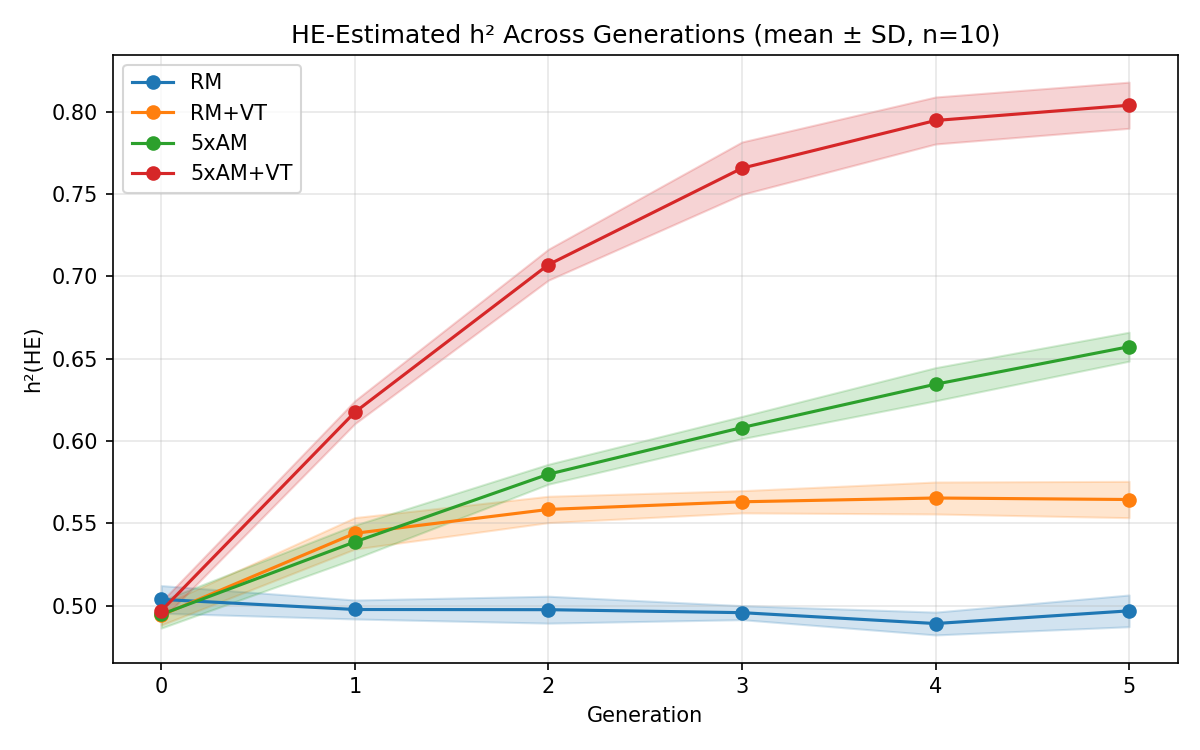
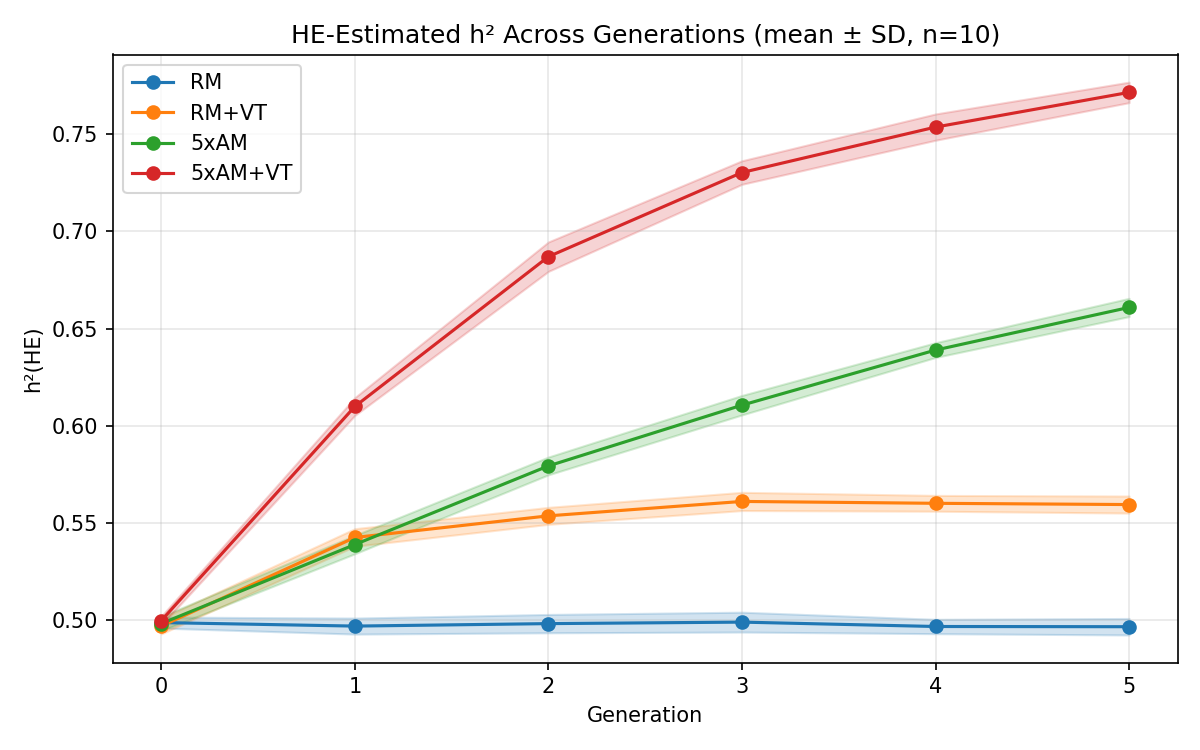
memory-efficient HE estimator via StandardizedHaplotypeOperator
Adds StandardizedHaplotypeOperator wrapping a HaplotypeOperator so that
matvec/rmatvec act on the column-standardized matrix without materializing
it. HasemanElstonEstimator now uses this for K Y and the stochastic
tr(K^2) probe; the deterministic tr(K^2) branch still materializes G.

Regenerates figure3_h2.png and figure3_rg.png.

diff --git a/xftsim/struct.py b/xftsim/struct.py
@@ -2748,6 +2748,151 @@ class GraphHaplotypeOperator(HaplotypeOperator):
                 f"generation={self.generation})")
 
 
+class StandardizedHaplotypeOperator(HaplotypeOperator):
+    """Wraps a HaplotypeOperator so that ``matvec``/``rmatvec`` act on
+    the column-standardized matrix S = (X - mu) / sigma without
+    materializing S.
+
+    Identities used (mu, sigma broadcast across rows of X):
+
+    - ``S @ u   = H.matvec(u / sigma) - <mu, u / sigma>``
+    - ``S.T @ v = (H.rmatvec(v) - mu * sum(v)) / sigma``
+
+    Defaults follow the HWE convention used elsewhere: ``mu = 2p``,
+    ``sigma = sqrt(2 p (1 - p))`` where ``p`` comes from
+    ``H.recompute_af()``. Loci with ``sigma == 0`` (monomorphic) keep
+    ``sigma = 1`` to avoid division by zero, matching the existing
+    ``standardized_matvec`` implementations.
+
+    All other ``HaplotypeOperator`` methods (``matvec_maternal``,
+    ``matvec_paternal``, ``recompute_af``, ``to_dense``, ``meiosis``,
+    ``__getitem__``) forward to the underlying operator and return
+    raw (un-standardized) results. Re-wrap explicitly if you need
+    standardized semantics on the result.
+
+    Parameters
+    ----------
+    haplotypes : HaplotypeOperator
+        Underlying operator providing raw genotype matvec.
+    means : np.ndarray, optional
+        Per-variant means (length m). Defaults to ``2 * af``.
+    stds : np.ndarray, optional
+        Per-variant standard deviations (length m). Defaults to
+        ``sqrt(2 * af * (1 - af))``. Zeros are replaced with 1.
+    """
+
+    def __init__(
+        self,
+        haplotypes: HaplotypeOperator,
+        means: Optional[np.ndarray] = None,
+        stds: Optional[np.ndarray] = None,
+    ):
+        self._H = haplotypes
+
+        if means is None or stds is None:
+            af = haplotypes.recompute_af()
+            if means is None:
+                means = 2.0 * af
+            if stds is None:
+                stds = np.sqrt(2.0 * af * (1.0 - af))
+
+        means = np.asarray(means, dtype=np.float64)
+        stds = np.asarray(stds, dtype=np.float64).copy()
+        if means.shape != (haplotypes.m,):
+            raise ValueError(
+                f"means shape {means.shape} != (m,) = ({haplotypes.m},)"
+            )
+        if stds.shape != (haplotypes.m,):
+            raise ValueError(
+                f"stds shape {stds.shape} != (m,) = ({haplotypes.m},)"
+            )
+        stds[stds == 0] = 1.0
+
+        self._means = means
+        self._stds = stds
+
+    # --- forwarded metadata ---
+
+    @property
+    def samples(self):
+        return self._H.samples
+
+    @property
+    def variants(self):
+        return self._H.variants
+
+    @property
+    def n(self) -> int:
+        return self._H.n
+
+    @property
+    def m(self) -> int:
+        return self._H.m
+
+    @property
+    def means(self) -> np.ndarray:
+        return self._means
+
+    @property
+    def stds(self) -> np.ndarray:
+        return self._stds
+
+    # --- standardized matrix-vector ops ---
+
+    def matvec(self, v: np.ndarray) -> np.ndarray:
+        """S @ v = H.matvec(v / sigma) - <mu, v / sigma>."""
+        v = np.asarray(v, dtype=np.float64)
+        if v.ndim == 1:
+            v_scaled = v / self._stds
+            raw = self._H.matvec(v_scaled)
+            return raw - self._means @ v_scaled
+        v_scaled = v / self._stds[:, np.newaxis]
+        raw = self._H.matvec(v_scaled)
+        correction = self._means @ v_scaled  # shape (k,)
+        return raw - correction[np.newaxis, :]
+
+    def rmatvec(self, v: np.ndarray) -> np.ndarray:
+        """S.T @ v = (H.rmatvec(v) - mu * sum(v)) / sigma."""
+        v = np.asarray(v, dtype=np.float64)
+        raw = self._H.rmatvec(v)
+        if v.ndim == 1:
+            return (raw - self._means * v.sum()) / self._stds
+        vsum = v.sum(axis=0)  # shape (k,)
+        return (raw - self._means[:, np.newaxis] * vsum[np.newaxis, :]) / self._stds[:, np.newaxis]
+
+    def standardized_matvec(self, v: np.ndarray, af: np.ndarray = None) -> np.ndarray:
+        """Already standardized: equivalent to ``matvec``.
+
+        The ``af`` argument is ignored; standardization parameters are
+        fixed at construction time.
+        """
+        return self.matvec(v)
+
+    # --- forwarded ops (raw, un-standardized) ---
+
+    def matvec_maternal(self, v: np.ndarray) -> np.ndarray:
+        return self._H.matvec_maternal(v)
+
+    def matvec_paternal(self, v: np.ndarray) -> np.ndarray:
+        return self._H.matvec_paternal(v)
+
+    def recompute_af(self) -> np.ndarray:
+        return self._H.recompute_af()
+
+    def to_dense(self) -> "DenseHaplotypeArray":
+        return self._H.to_dense()
+
+    def meiosis(self, assignment, recombination_map) -> "HaplotypeOperator":
+        return self._H.meiosis(assignment, recombination_map)
+
+    def __getitem__(self, key) -> "HaplotypeOperator":
+        return self._H[key]
+
+    def __repr__(self) -> str:
+        return (f"StandardizedHaplotypeOperator(H={type(self._H).__name__}, "
+                f"n={self.n}, m={self.m})")
+
+
 class NHaplotypeArrayAccessor:
     """
     Accessor class that mimics the xarray .xft interface for DenseHaplotypeArray.

diff --git a/xftsim/stats.py b/xftsim/stats.py
@@ -13,7 +13,7 @@ from dataclasses import dataclass, field
 from typing import Any, Dict, Optional
 
 from xftsim.filters import TrioView, SibPairView, FilteredView
-from xftsim.struct import NPhenotypeArray
+from xftsim.struct import NPhenotypeArray, StandardizedHaplotypeOperator
 
 
 @dataclass
@@ -155,9 +155,10 @@ class HasemanElstonEstimator(Statistic):
         if not keys:
             return None
 
-        # Build standardized genotype matrix (n x m), per-SNP standardized
-        G = hap.to_diploid_standardized(scale=True).astype(np.float64)
-        n, m = G.shape
+        # Wrap raw haplotypes so matvec/rmatvec act on standardized G
+        # without materializing the (n x m) standardized matrix.
+        S = StandardizedHaplotypeOperator(hap)
+        n, m = S.n, S.m
 
         # Build phenotype matrix (n x k), standardized
         Y = np.column_stack([pheno[k] for k in keys]).astype(np.float64)
@@ -166,9 +167,9 @@ class HasemanElstonEstimator(Statistic):
         Y_std[Y_std < 1e-15] = 1.0
         Y = (Y - Y_mean) / Y_std
 
-        # K Y = G (G' Y) / m  — computed without forming K explicitly
-        GtY = G.T @ Y  # (m, k)
-        KY = G @ GtY / m  # (n, k)
+        # K Y = G (G' Y) / m  — computed without forming K or G explicitly
+        GtY = S.rmatvec(Y)  # (m, k)
+        KY = S.matvec(GtY) / m  # (n, k)
 
         # tr(K^2)
         if self.n_probe > 0 and n > 500:
@@ -176,11 +177,12 @@ class HasemanElstonEstimator(Statistic):
             rng = np.random.RandomState()
             probes = rng.randn(n, self.n_probe)
             # tr(K^2) ≈ (1/l) * tr(P' K^2 P) = (1/l) * ||K P||_F^2
-            KP = G @ (G.T @ probes) / m  # (n, n_probe)
+            KP = S.matvec(S.rmatvec(probes)) / m  # (n, n_probe)
             trK2 = np.sum(KP ** 2) / self.n_probe
         else:
-            # Deterministic: tr(K^2) = tr(G G' G G' / m^2)
-            # = ||G' G||_F^2 / m^2 (avoids forming n x n matrix)
+            # Deterministic: tr(K^2) = ||G' G||_F^2 / m^2.
+            # No cheap operator-only path for this; materialize standardized G.
+            G = hap.to_diploid_standardized(scale=True).astype(np.float64)
             GtG = G.T @ G  # (m, m)
             trK2 = np.sum(GtG ** 2) / (m * m)
 
